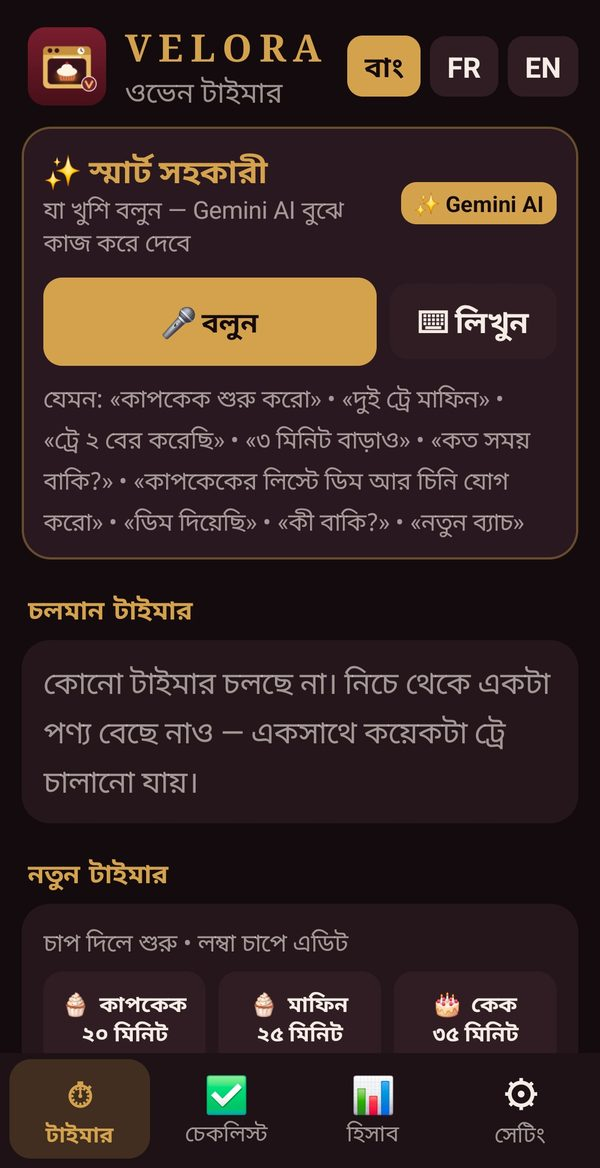
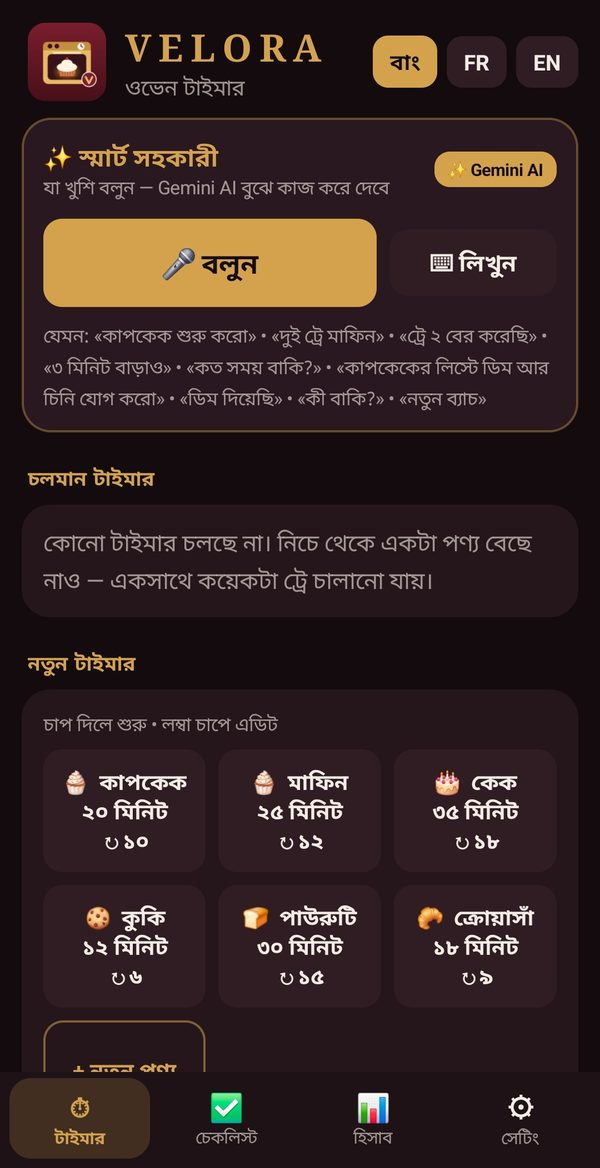
Gallery arrows (inline + lightbox, swipe/keys), Oven Timer v3.5 screenshots
Claude-Session: https://claude.ai/code/session_01F8GRqNypFHZdB6nS2detem

diff --git a/index.html b/index.html
@@ -42,6 +42,12 @@ h2{font-size:21px}
 .shots img{height:300px;width:auto;border-radius:16px;border:1px solid var(--line);scroll-snap-align:start;cursor:zoom-in;flex:none}
 .lb{position:fixed;inset:0;background:#000d;display:flex;align-items:center;justify-content:center;z-index:9;padding:14px;cursor:zoom-out}
 .lb img{max-width:100%;max-height:100%;border-radius:14px}
+.gal{position:relative}
+.gal .arr{position:absolute;top:50%;transform:translateY(-60%);width:38px;height:38px;border-radius:50%;border:1px solid var(--line);background:#000a;color:#fff;font-size:22px;line-height:1;cursor:pointer;z-index:2;display:flex;align-items:center;justify-content:center;padding:0}
+.gal .arr.l{left:4px}.gal .arr.r{right:4px}.gal .arr[hidden]{display:none}
+.lb .arr{position:absolute;top:50%;transform:translateY(-50%);width:46px;height:46px;border-radius:50%;border:0;background:#fff3;color:#fff;font-size:28px;cursor:pointer;display:flex;align-items:center;justify-content:center;padding:0}
+.lb .arr.l{left:10px}.lb .arr.r{right:10px}.lb .cnt{position:absolute;bottom:14px;left:0;right:0;text-align:center;color:#fff;font-size:14px}
+
 details{margin-top:14px;border-top:1px solid var(--line);padding-top:12px}
 summary{cursor:pointer;font-weight:700;color:var(--gold);font-size:15px}
 ol,ul{margin:10px 0 0 22px;color:#dde4fb;font-size:14.5px}
@@ -118,11 +124,31 @@ function render(){
     if(a.status==="live") meta = `${t.ver} ${esc(a.version)} · ${esc(a.size)} · ${t.upd} ${esc(a.date)} · ${t.need} ${esc(a.android)}`;
     c.innerHTML = `<div class="top"><div class="ic">${ic}</div><div><h2>${esc(a.name[lang])}</h2><div class="meta">${meta}</div></div></div><p class="desc">${esc(a.tagline[lang])}</p>`;
     if(a.screens && a.screens.length){
+      const wrap = el("div","gal");
       const g = el("div","shots"); g.setAttribute("aria-label", t.shots);
-      a.screens.forEach(u=>{const im=el("img"); im.src=u; im.loading="lazy"; im.alt=t.shots;
-        im.onclick=()=>{const lb=el("div","lb"); const big=el("img"); big.src=u; lb.appendChild(big); lb.onclick=()=>lb.remove(); document.body.appendChild(lb)};
-        g.appendChild(im)});
-      c.appendChild(g);
+      const L = el("button","arr l","‹"), R = el("button","arr r","›");
+      L.setAttribute("aria-label","←"); R.setAttribute("aria-label","→");
+      const openLb = (i)=>{
+        const n=a.screens.length; let k=i;
+        const lb=el("div","lb"); const big=el("img"); const cnt=el("div","cnt");
+        const pl=el("button","arr l","‹"), pr=el("button","arr r","›");
+        const show=()=>{big.src=a.screens[k]; cnt.textContent=(k+1)+" / "+n; pl.hidden=pr.hidden=(n<2)};
+        const go=d=>{k=(k+d+n)%n; show()};
+        const close=()=>{lb.remove(); document.removeEventListener("keydown",key)};
+        const key=e=>{if(e.key==="ArrowLeft")go(-1);else if(e.key==="ArrowRight")go(1);else if(e.key==="Escape")close()};
+        pl.onclick=e=>{e.stopPropagation();go(-1)}; pr.onclick=e=>{e.stopPropagation();go(1)};
+        big.onclick=e=>{e.stopPropagation()};
+        let x0=null; lb.addEventListener("touchstart",e=>{x0=e.touches[0].clientX},{passive:true});
+        lb.addEventListener("touchend",e=>{if(x0==null)return; const dx=e.changedTouches[0].clientX-x0; x0=null; if(Math.abs(dx)>40)go(dx<0?1:-1)});
+        lb.onclick=close; document.addEventListener("keydown",key);
+        lb.append(big,pl,pr,cnt); document.body.appendChild(lb); show();
+      };
+      a.screens.forEach((u,i)=>{const im=el("img"); im.src=u; im.loading="lazy"; im.alt=t.shots; im.onclick=()=>openLb(i); g.appendChild(im)});
+      const step=()=>Math.max(120,Math.round(g.clientWidth*0.8));
+      const upd=()=>{const max=g.scrollWidth-g.clientWidth-2; const rtl=getComputedStyle(g).direction==="rtl"; const p=Math.abs(g.scrollLeft); L.hidden=p<=2; R.hidden=p>=max};
+      L.onclick=()=>g.scrollBy({left:-step(),behavior:"smooth"}); R.onclick=()=>g.scrollBy({left:step(),behavior:"smooth"});
+      g.addEventListener("scroll",upd,{passive:true}); window.addEventListener("resize",upd); setTimeout(upd,60); setTimeout(upd,500);
+      wrap.append(g,L,R); c.appendChild(wrap);
     }
     if(a.status==="live"){
       const row = el("div","btns");
